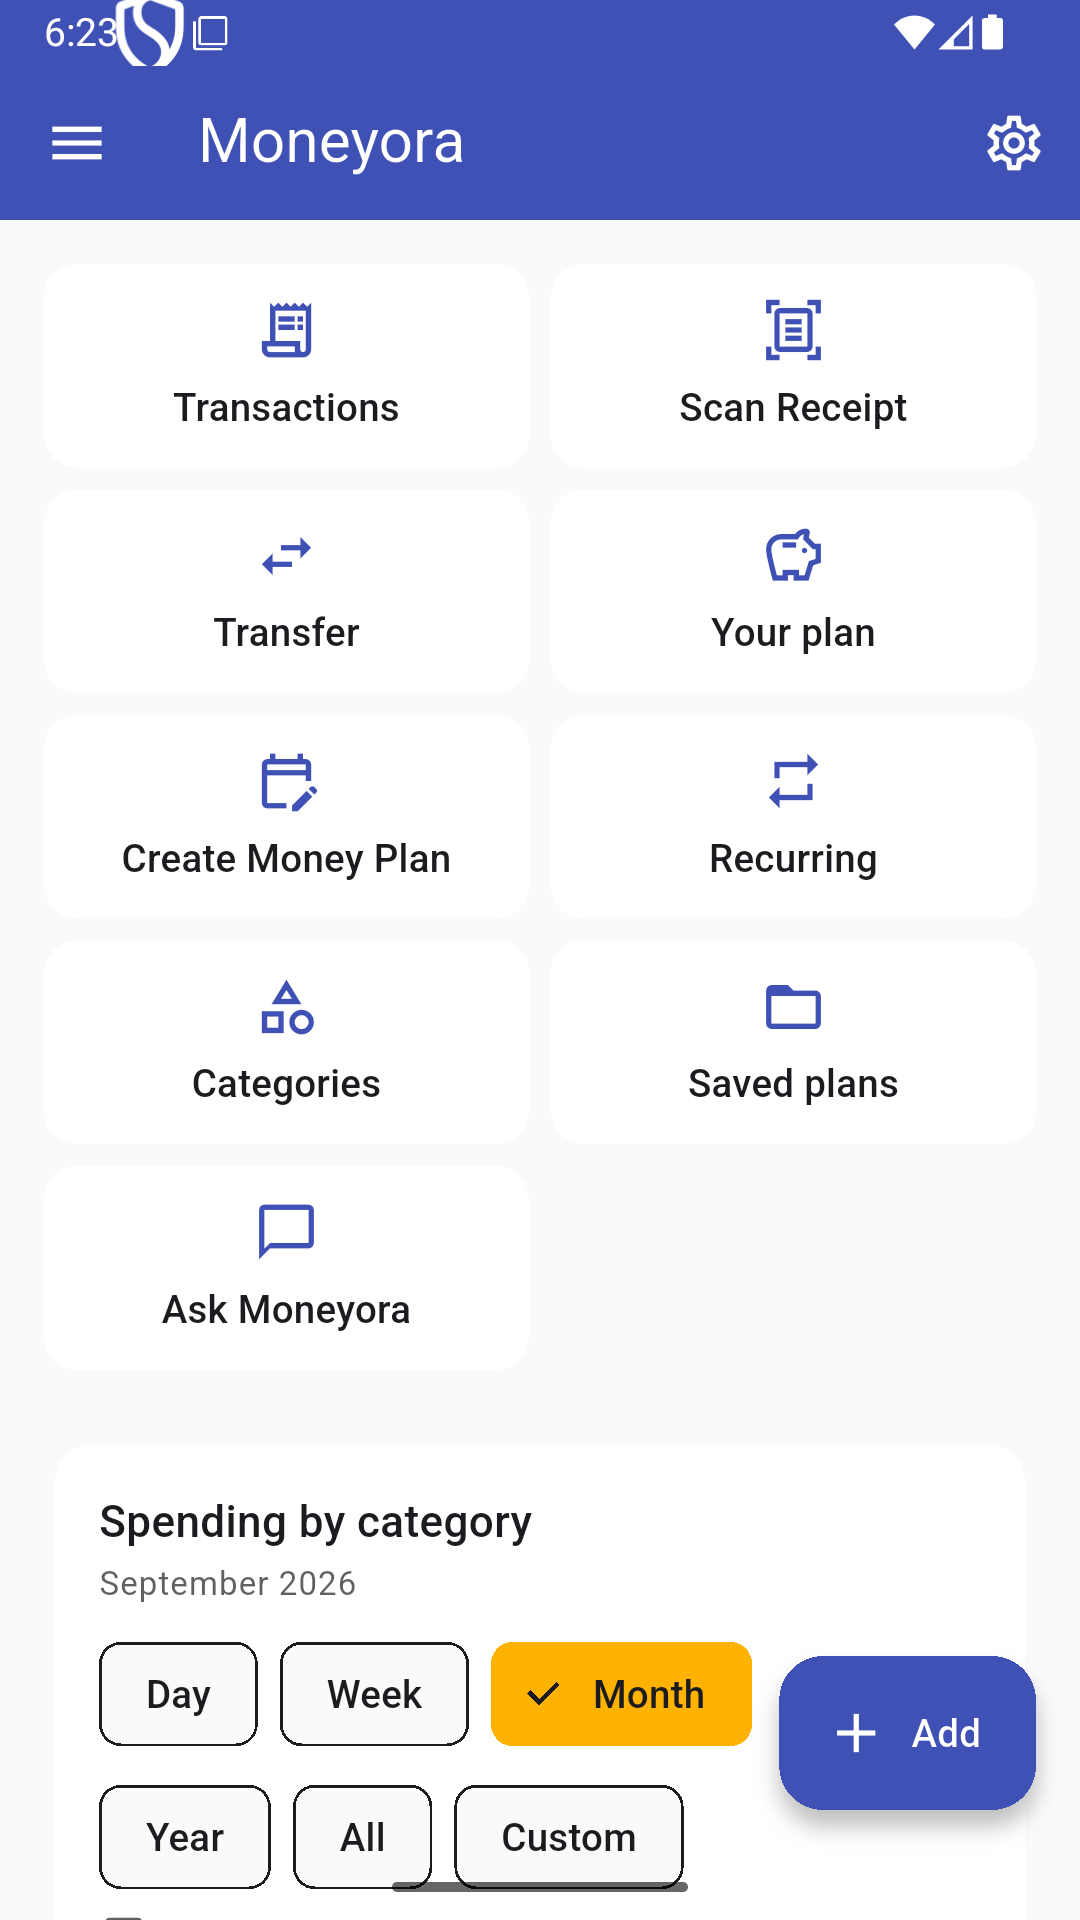
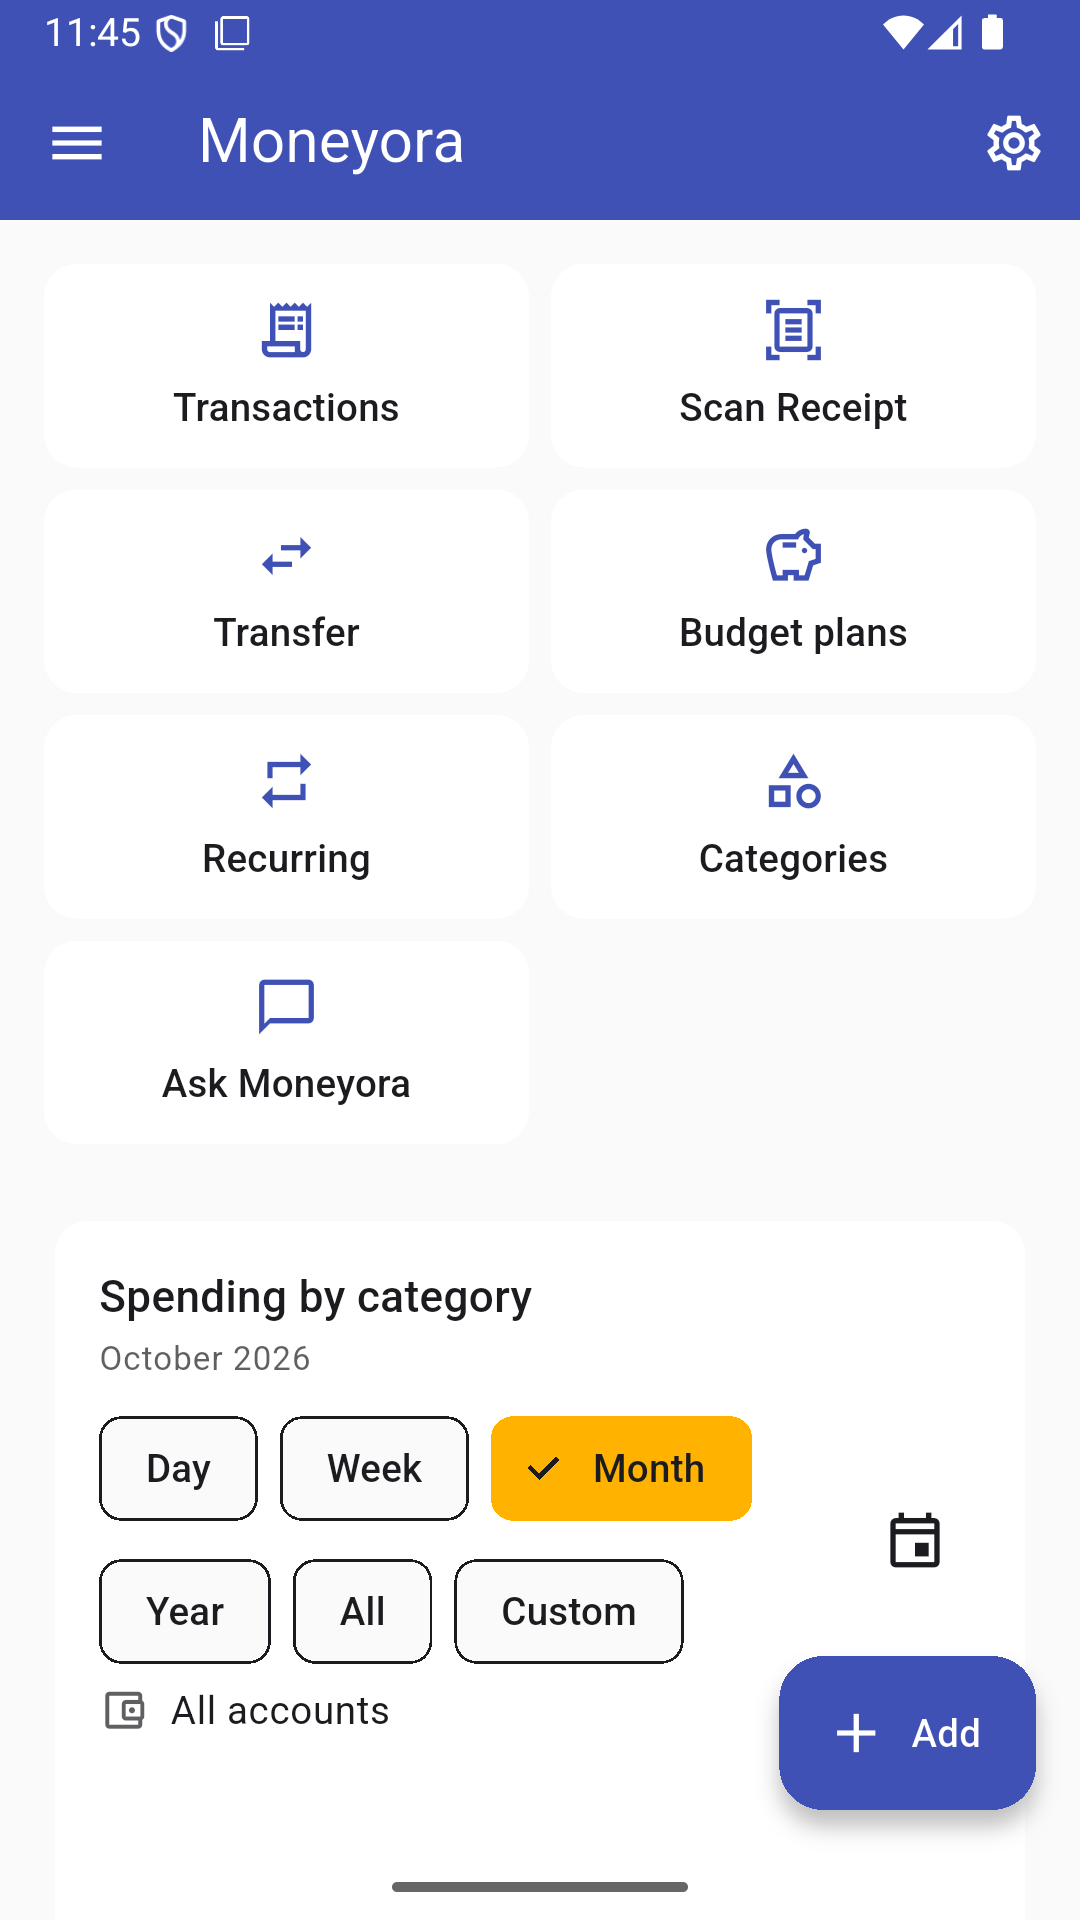
docs(readme): describe the released app, and how to install and update it (#170)
The README still described Sprint 3: the receipt scanner, the passcode
and backup "not started", a Sprint 1 screenshot of the database opening,
and cloud backup and live exchange rates as networked features that were
never built. It now describes 1.0.1 as people install it: where to
download it and which APK to pick, how an update keeps their data and
why never to uninstall, the two headline features as they work today,
everything else in one list, and Ask Moneyora as the only feature that
uses the internet. The developer material follows under its own heading,
with RELEASE.md and the store listing added to the documents table.

The Money Plan's classes are Fixed, Variable and Seasonal; "trending"
was a fourth class that does not exist, and the trend is now described
as the adjustment it is.

The home and list screenshots in store/ are retaken from 1.0.1, since
the tiles and the arrows changed; the Sprint 1 one is removed.

Refs: E-39, E-20

diff --git a/README.md b/README.md
@@ -5,99 +5,142 @@
 **Plan. Track. Thrive.**
 
 A personal finance app that builds your budget from your own spending history
-and reads your receipts with the camera — both running entirely on the phone,
-with the radio off.
+and reads your receipts with the camera — both on the phone, with the radio
+off.
 
 [![CI](https://github.com/SanduniLiyanage/Moneyora/actions/workflows/ci.yml/badge.svg)](https://github.com/SanduniLiyanage/Moneyora/actions/workflows/ci.yml)
+[![Release](https://img.shields.io/github/v/release/SanduniLiyanage/Moneyora?label=release)](https://github.com/SanduniLiyanage/Moneyora/releases/latest)
 [![Flutter](https://img.shields.io/badge/Flutter-3.x-02569B?logo=flutter&logoColor=white)](https://flutter.dev)
 [![Licence: MIT](https://img.shields.io/badge/licence-MIT-blue.svg)](LICENSE)
 
-<img src="docs/screenshots/home.png" width="320"
-     alt="Moneyora on an Android emulator: the encrypted database open, showing schema version, one account and eighteen seeded categories">
-
-<sub>Sprint 1 on an Android emulator — the encrypted database open and seeded.<br>
-The entry screen and transaction list landed in Sprint 2.</sub>
+<img src="store/screenshots/1-home.png" width="240" alt="The home screen: shortcuts to Transactions, Scan Receipt, Transfer, Budget plans, Recurring, Categories and Ask Moneyora, above the spending chart">
+<img src="store/screenshots/3-transactions-by-day.png" width="240" alt="The transaction list grouped by day, with the balance for the chosen period above it">
+<img src="store/screenshots/4-plan-from-your-own-history.png" width="240" alt="Create Money Plan explaining there is not enough history for a suggested plan yet, and offering Build it yourself">
 
 </div>
 
 ---
 
+## Install
+
+Moneyora is free. Download the APK from the
+[latest release](https://github.com/SanduniLiyanage/Moneyora/releases/latest)
+and open it on the phone:
+
+- `moneyora-<version>-arm64-v8a.apk` — almost every Android phone from the
+  last several years;
+- `moneyora-<version>-armeabi-v7a.apk` — older 32-bit phones.
+
+Android asks once to allow installing from your browser or file manager.
+Requires Android 8.0 or later.
+
+**Updating:** download the new release's APK and open it. Android offers
+**Update** and keeps everything you have recorded. Never uninstall to update:
+uninstalling deletes your data, unless you made a backup first (Settings ›
+Back up now).
+
+---
+
 ## The two features that make it more than an expense tracker
 
-### Money Plan Generator
+### Money Plan
 
-Most budgeting apps ask you to invent a number for each category and then feel
-bad about it. Moneyora reads what you have actually spent and proposes the
-budget itself.
+Most budgeting apps ask you to invent a number for each category. Moneyora
+can propose one from what you have actually spent — or you can build the plan
+yourself, and it tracks your spending against it either way.
 
-It classifies every category from its own history — **fixed** costs like rent
-(a coefficient of variation under 0.15), **variable** ones like food,
-**seasonal** ones that spike in particular months, and **trending** ones
-climbing month over month — then allocates against your income and tells you
-how much to trust each figure. A category with three transactions behind it is
-reported as low confidence rather than dressed up as a forecast.
+A suggested plan classifies every category from its own history: **fixed**
+costs like rent (a coefficient of variation under 0.15), **variable** ones like
+food, and **seasonal** ones that spike in particular months. A rising or
+falling trend adjusts the figure, and the total can come from your history,
+from a figure you set, or from your income less your fixed costs and savings.
+Every category says how far to trust it: a figure with little history behind
+it is labelled **Low** confidence rather than dressed up as a forecast.
 
-All of it is ordinary statistics computed in Dart on the device. Nothing is
-sent anywhere, and it works on a plane.
+It suggests only from your own spending — at least one whole month and ten
+expenses — and never from made-up examples. Until then, you build the plan by
+hand.
 
-### Receipt Scanner
+Following a plan shows each category's spend against its budget, green, yellow
+then red, with an optional notification at 80% and at 100%. A category that
+goes over offers three answers: take it from the others, take it from one you
+choose, or carry it into the next plan.
 
-Photograph a receipt and it is read on-device with Google ML Kit: merchant,
-date, total, and line items. A three-layer keyword classifier guesses the
-category, and — this is the part that matters — **it learns from your
-corrections**, so the guesses improve with use.
+All of it is ordinary statistics computed in Dart on the device.
 
-No image and no total ever leaves the phone.
+### Receipt scanner
+
+Photograph a receipt, or pick one from the gallery, and it is read on the
+phone with Google ML Kit: the merchant, the date, the total and each line
+item, with discounts taken off the item they belong to. Each line gets a
+suggested category from a three-layer classifier — a keyword dictionary, your
+own history, and the merchant — and **it learns from your corrections**.
+You review everything before a single expense is saved, or file the whole
+receipt under one category.
+
+The photo is kept encrypted with the expenses it became, and never leaves the
+phone.
 
 ---
 
-## What is built today
+## Everything else
 
-| Area | Status |
+- **Accounts** — cash, cards and bank accounts, each with its balance; other
+  currencies counted at rates you enter.
+- **Transfers** between your own accounts, which move each account's balance
+  without counting as spending.
+- **Recurring** expenses and income, with an optional reminder before each.
+- **Categories** you can add, rename, recolour and nest one level deep.
+- **Charts** — spending by category, income against expenses, trends over
+  time and a spending calendar, for any period and any account.
+- **Budget plans** — every plan you have kept, the active one first: rename,
+  delete, compare two side by side.
+- **Passcode** (4–6 digits, with a lockout that doubles after each wrong try)
+  and **biometric unlock**.
+- **Encrypted backup** to a file sealed with your password, which any phone
+  with Moneyora can restore; **export** to CSV or PDF.
+- **Ask Moneyora** — optional questions about your spending, answered by
+  Google's Gemini with your own free API key. It sends only your question and
+  the category totals it needs, never a transaction.
+- Light and dark themes, and screens that hold at the largest text size on a
+  phone as narrow as 320 dp.
+
+Everything except Ask Moneyora works with no internet connection at all. What
+is stored, and the one case in which anything leaves the phone, is set out in
+[`PRIVACY.md`](docs/PRIVACY.md). How to use each screen is in the
+[user manual](docs/USER_MANUAL.md).
+
+---
+
+## Security
+
+The database is encrypted with AES-256 (SQLCipher). Its key is held in the
+Android Keystore / iOS Keychain and never appears in source. Receipt photos
+are encrypted before they are written. No financial data leaves the device
+without an explicit action by the user, and there are no analytics and no
+crash reporting.
+
+## Platform status
+
+| Platform | Status |
 |---|---|
-| Encrypted database, schema, migrations, seed data | **Built** |
-| Theme, navigation, error handling, CI pipeline | **Built** |
-| Transactions — entry keypad, list, filter, edit, undo | **Built** |
-| Accounts and transfers — domain and data layers | **Built** |
-| Accounts — the side panel of balances | **Built** |
-| Accounts — add and edit, with 25 built-in icons | **Built** |
-| Accounts — archive, restore and delete | **Built** |
-| Transfers — atomic, with the screen that records them | **Built** |
-| Analytics — the spending-by-category query | **Built** — domain and data only |
-| AI Copilot — agent loop, first tool, model integration | **Built** |
-| AI Copilot — the ask screen | **Built** — not yet proven against the live API |
-| Categories — custom, hierarchy, inline create | Not started — Sprint 3.5 |
-| Analytics — donut chart, filters, bars, trend lines, heatmap | **Built** — Sprint 4 complete |
-| Money Plan Generator | **Built** — Sprint 5 complete: engine, wizard, live tracking, overspend responses, plan list and comparison |
-| Receipt Scanner | Not started — Sprint 6 |
-| PIN and biometrics, backup and export | Not started — Sprints 7–8 |
+| Android 8.0+ (API 26) | **Released** on [GitHub Releases](https://github.com/SanduniLiyanage/Moneyora/releases). Tested on an emulator and by testers on their own phones. |
+| iOS 15.5+ | **Compile-verified only** — CI builds it on macOS for every pull request, but it has never run on a device or simulator. The floor is above the SRS's iOS 14 because ML Kit requires 15.5. See [E-19](docs/SPEC_ERRATA.md), [E-20](docs/SPEC_ERRATA.md). |
 
-Sprints 1 and 2 of 11 are complete and verified on an Android emulator.
-Sprint 3 is all but done — the accounts slice, the side panel, the account form,
-archiving, restoring, deleting and the transfer screen are all in, leaving the
-entry screen's account selector and the transfer rows' `From`/`To` labels.
-Sprint 3.5, categories, is next.
-
-For the current test count, coverage figure and everything else that carries a
-number, see [`docs/HANDOFF.md`](docs/HANDOFF.md) — it is the one place they are
-recorded, so that they cannot drift apart between documents. It also has what
-exists, what is next, and the environment traps.
-
-Everything above works offline. The AI Copilot, cloud backup and live exchange
-rates are the only networked features — each optional, each behind a
-connectivity check with a fallback, and none of them handling raw financial
-data. The Copilot's tools run on-device and send only computed aggregates; see
-[`docs/COPILOT.md`](docs/COPILOT.md).
+"Builds on iOS" and "works on iOS" are different claims, and only the first is
+being made.
 
 ---
 
-## Stack
+## For developers
 
-Flutter · Dart 3 · Riverpod (`AsyncNotifier`) · SQLite + SQLCipher (AES-256) ·
-Google ML Kit · fpdart · fl_chart · go_router · Clean Architecture,
-feature-first
+### Stack
 
-## Quick start
+Flutter · Dart 3 · Riverpod · SQLite + SQLCipher (AES-256) · Google ML Kit
+text recognition · fpdart · fl_chart · go_router · flutter_local_notifications
+· local_auth · pdf · Clean Architecture, feature-first
+
+### Quick start
 
 ```powershell
 git clone https://github.com/SanduniLiyanage/Moneyora.git
@@ -111,11 +154,11 @@ cold — `PUB_CACHE` must sit on the same drive as the repository, and
 `cmdline-tools` is pinned deliberately. Both are documented in
 [`docs/SETUP.md`](docs/SETUP.md).
 
-## Repository layout
+### Repository layout
 
 ```
 lib/
-├── core/          shared: theme, errors, utils, database, router
+├── core/          shared: theme, errors, utils, database, router, ports
 ├── features/      one self-contained module per feature
 │   └── <feature>/
 │       ├── domain/         pure Dart — entities, contracts, use cases
@@ -125,7 +168,8 @@ lib/
 ├── app.dart
 └── injection.dart
 docs/              guides, plus the approved specifications in docs/specs/
-scripts/           bootstrap + architecture boundary checker
+store/             listing assets: screenshots and the feature graphic
+scripts/           bootstrap, and the checks CI runs
 test/              mirrors lib/
 ```
 
@@ -134,7 +178,17 @@ test/              mirrors lib/
 be tested without a device, and `scripts/check_architecture.sh` enforces it on
 every push rather than trusting anyone to remember.
 
-## Documentation
+### Checks
+
+Every pull request runs formatting, `flutter analyze`, the full test suite with
+a 75% floor on domain-layer coverage, the layer boundaries, every cited
+requirement ID (`scripts/check_citations.sh`), and a release build — the one
+that runs the shrinker — which must stay under 80 MB per ABI and keep what the
+shrinker would otherwise strip (`scripts/check_proguard.sh`). The current test count and coverage are
+recorded in one place, [`docs/HANDOFF.md`](docs/HANDOFF.md), so they cannot
+drift apart between documents.
+
+### Documentation
 
 | Document | Read it when |
 |---|---|
@@ -142,11 +196,13 @@ every push rather than trusting anyone to remember.
 | [SPEC_ERRATA.md](docs/SPEC_ERRATA.md) | **Before implementing any requirement.** Where it and a spec disagree, it wins |
 | [USER_MANUAL.md](docs/USER_MANUAL.md) | Using the app: every screen, for the person holding the phone |
 | [PRIVACY.md](docs/PRIVACY.md) | What the app stores, what can leave the phone and when; the store's privacy policy |
+| [RELEASE.md](docs/RELEASE.md) | Publishing a version, and how installed copies update |
 | [SETUP.md](docs/SETUP.md) | Setting up a machine, or a build breaks |
 | [ARCHITECTURE.md](docs/ARCHITECTURE.md) | Adding any feature — layer rules and conventions |
 | [WORKFLOW.md](docs/WORKFLOW.md) | Branching, commits, releases |
 | [ROADMAP.md](docs/ROADMAP.md) | Deciding what to build next |
-| [COPILOT.md](docs/COPILOT.md) | Working on the AI Copilot — its scope, privacy design and build order |
+| [COPILOT.md](docs/COPILOT.md) | Working on Ask Moneyora — its scope, privacy design and build order |
+| [store/LISTING.md](docs/store/LISTING.md) | The store listing text and the data-safety answers |
 | [CLAUDE.md](CLAUDE.md) | Working with Claude Code in this repo |
 | [specs/](docs/specs/) | The approved SRS, SDD, DBD and ERD PDFs — unmodified — plus derived, non-authoritative Markdown transcripts for grepping |
 | [REQUIREMENTS_INDEX.md](docs/specs/REQUIREMENTS_INDEX.md) | **Before citing an FR-/NFR- ID anywhere.** Every requirement, flat and greppable, with known citation traps |
@@ -168,35 +224,14 @@ features that do not exist. One ran the other way entirely — auditing the
 *code's* citations against the SRS — and found four requirement IDs naming the
 wrong requirements, plus a use case that had shipped with no requirement behind
 it at all. One found that eight of the ten account icons the SRS names are other
-companies' trademarks. The most recent found a requirement this hardware cannot
-verify, and a structural decision recorded nowhere but in one file's own
-comment.
+companies' trademarks.
 
 Rather than silently editing the specifications, every deviation is recorded in
 [`SPEC_ERRATA.md`](docs/SPEC_ERRATA.md) with its reasoning, and folds into v1.1
 at milestone M2. One finding was later withdrawn on evidence, which is recorded
 there too. **That file carries its own current count and status** — deliberately
 not repeated here, since a number restated in three documents goes stale in
-three places and then disagrees with itself. The baseline stays auditable; the
-corrections stay traceable.
-
-## Platform status
-
-| Platform | Status |
-|---|---|
-| Android 8.0+ (API 26) | Primary target. Built and run on an emulator. |
-| iOS 15.5+ | **Compile-verified only** — CI builds it on macOS every PR, but it has never been run on a device or simulator. Floor raised from the SRS's iOS 14 because ML Kit requires 15.5. See [E-19](docs/SPEC_ERRATA.md), [E-20](docs/SPEC_ERRATA.md). |
-
-The distinction matters: "builds on iOS" and "works on iOS" are different
-claims, and only the first is being made.
-
-## Security
-
-Database encrypted with AES-256 (SQLCipher); the key is held in the Android
-Keystore / iOS Keychain and never appears in source. Receipt images are stored
-in encrypted app-private storage. No financial data leaves the device without
-an explicit user action. Optional PIN (4–6 digits, 5-attempt lockout with
-exponential backoff) and biometrics.
+three places and then disagrees with itself.
 
 ## Licence
 

diff --git a/docs/RELEASE.md b/docs/RELEASE.md
@@ -220,7 +220,9 @@ requires it ([E-20](SPEC_ERRATA.md)). Say 15.5 in App Store Connect.
       yours, or a friend's Samsung — and open every screen. The emulator
       has never caught a missing runtime permission.
 - [x] Screenshots from a release build, not a debug one (the debug banner is
-      an automatic rejection): `store/screenshots/`, taken 2026-09-28.
+      an automatic rejection): `store/screenshots/`, taken 2026-09-28;
+      the home screen and the list retaken from 1.0.1 on 2026-10-06, for
+      the Budget plans tile and the arrows.
 - [x] The privacy policy at a public URL: the repository is public, so the
       file's GitHub page is one.
 - [x] A contact address in [`PRIVACY.md`](PRIVACY.md) and
